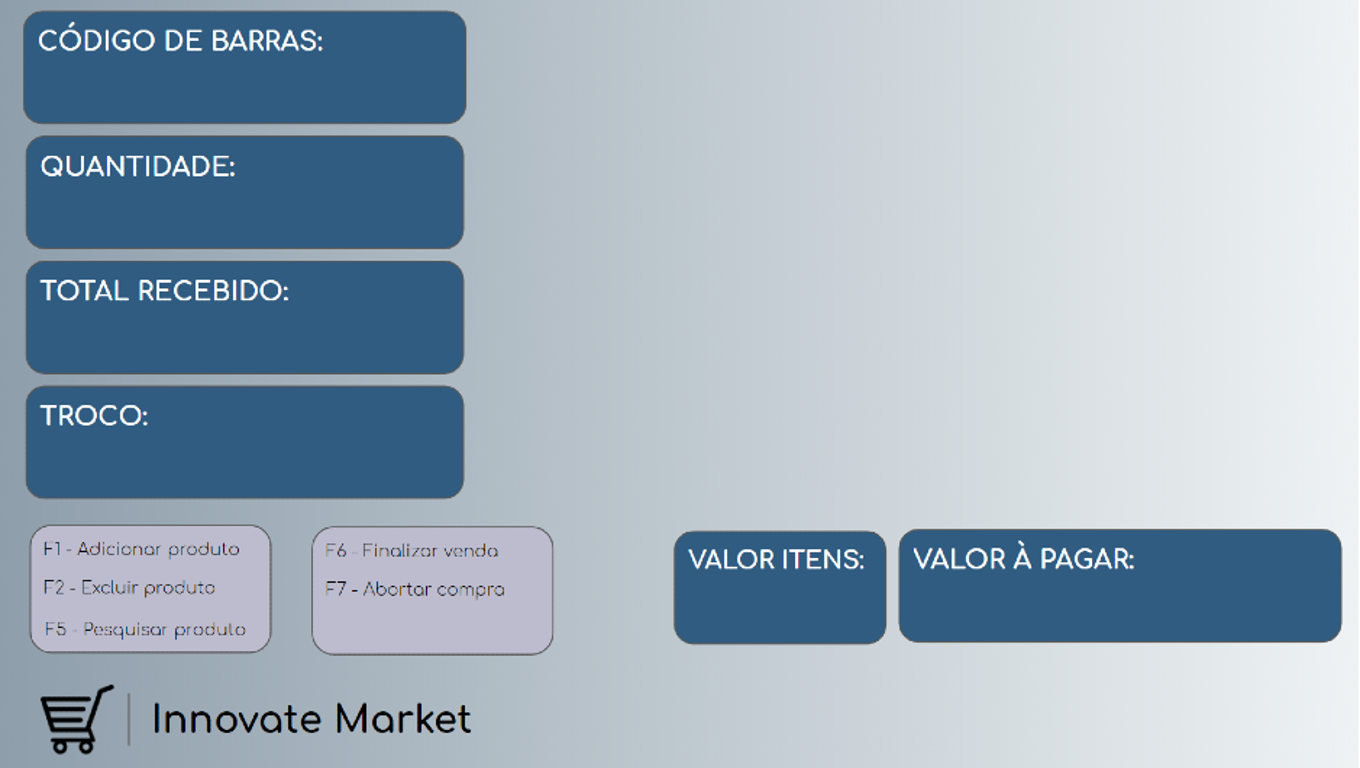
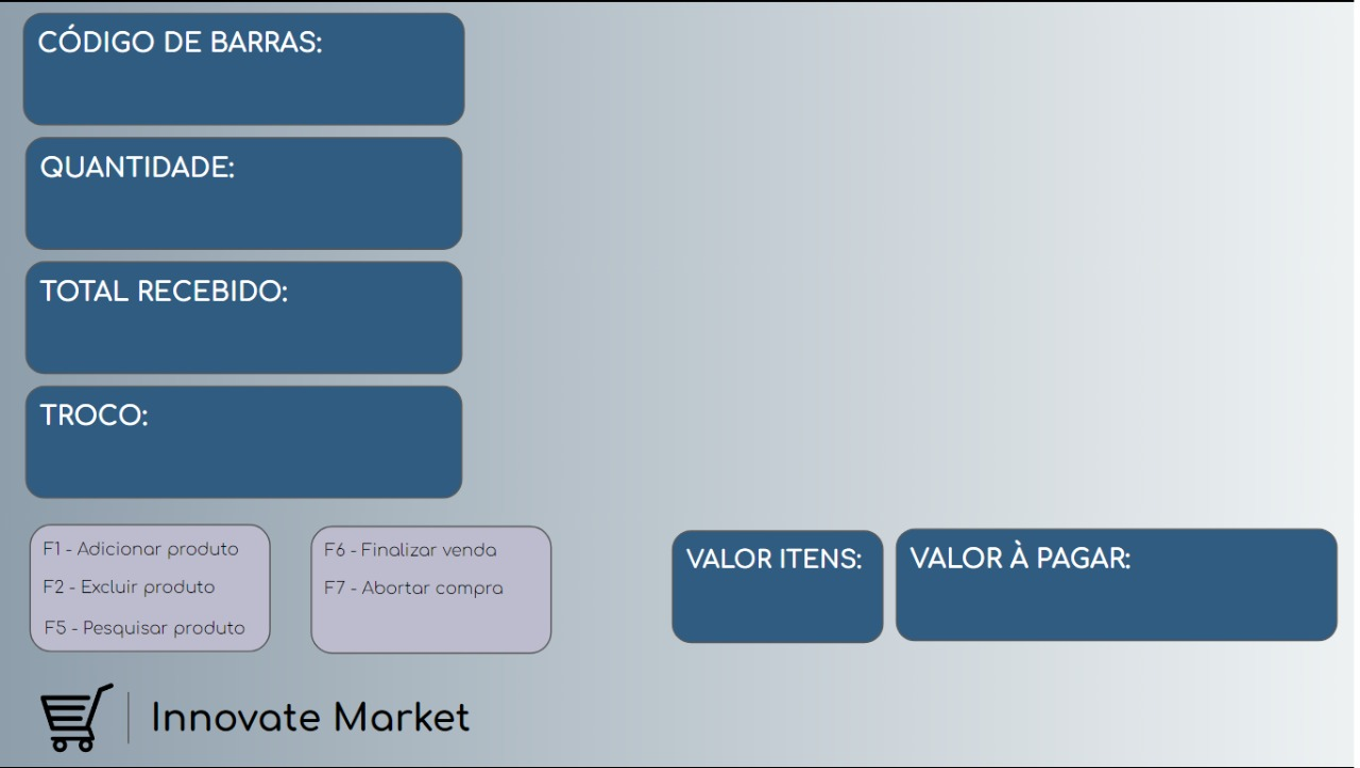
FINALY

diff --git a/InnovateMarket/view/Caixa.py b/InnovateMarket/view/Caixa.py
@@ -11,6 +11,8 @@ class Caixa():
     def __init__(self):
         self.compraID = self.gerarVendaId()
         self.telacaixa = Toplevel()
+        self.valor = 0
+        self.troco = 0
         self.telacaixa.attributes("-fullscreen", True)
         self.geometry()
         self.imagecaixapath = imagespath /  "Logo.png"
@@ -26,6 +28,7 @@ class Caixa():
         self.telacaixa.bind('<F5>', lambda event: self.pesquisarProduto())
         self.telacaixa.bind('<F6>', lambda event: self.finalizarVenda())
         self.telacaixa.bind('<F7>', lambda event: self.abortarCompra())
+        
 
     def geometry(self):
         self.telacaixa.title("Caixa")
@@ -45,6 +48,18 @@ class Caixa():
             caixaControler().caixaAbortar(self.compraID)
             self.telacaixa.destroy()
         return
+    
+    def treeViewSelectionItem(self):
+        self.currItem = self.tree_caixa.focus()
+        self.values = self.tree_caixa.item(self.currItem)['values']
+        print(self.values)
+        self.values = self.values[1]
+        return self.values
+
+    def atualizarDadosLabel(self):
+        self.lbl_valorPagar.config(text=self.valor)
+        self.lbl_troco.config(text=self.troco)
+        
 
     def adicionarProduto(self):
         self.dicti = {}
@@ -66,34 +81,46 @@ class Caixa():
             title="ERROR!", message="Coloque uma quantidade válida!", parent=self.telacaixa)
         
         resultado = caixaControler().validarValues(self.dicti)
-        print(resultado)
+        
         if resultado:
             self.dicti["CodigoProduto"] = self.ent_cod_barras.get()
             self.dicti["CodigoCompra"] = self.compraID
+            self.valor += (int(self.nomeProduto[0][1]) * int(self.quantidade))
             caixaControler().adicionarProdutoCaixa(self.dicti)
             self.mostrarDados()
+            self.atualizarDadosLabel()
 
     def excluirProdutoCompra(self):
         self.currItem = self.tree_caixa.focus()
         if not self.currItem :
             messagebox.showwarning(title="ERROR!", message="Selecione um produto para deletar!", parent=self.telacaixa)
         else:
-            self.values = caixaControler().caixaValues(self.tree_caixa.item(self.currItem)['values'])
+            self.values = self.tree_caixa.item(self.currItem)['values']
+            self.values.append(self.compraID)
+            self.values = caixaControler().caixaValues(self.values)
             self.tree_caixa.delete(self.currItem)
+            self.valor -= (int(self.values.Valores) * int(self.values.Qtd))
             caixaControler().deletarProduto(self.values.CodigoProduto)
+            self.atualizarDadosLabel()
             self.mostrarDados()
 
     def finalizarVenda(self):
-        self.result = messagebox.askquestion(
+        if self.ent_totalRecebido.get() != '':
+            self.troco = int(self.ent_totalRecebido.get()) - int(self.valor)
+            self.atualizarDadosLabel()
+            self.result = messagebox.askquestion(
             'AVISO', 'Tem certeza que deseja finalizar a compra?', icon="warning", parent=self.telacaixa)
-        if self.result == "yes":
-            caixaControler().caixaFinalizarCompra(self.compraID)
-            self.mostrarDados()
-            messagebox.showinfo(title="Finalizado!", message="Compra finalizada!", parent=self.telacaixa)
-            sleep(3)
-            self.telacaixa.destroy()
-        return
-        
+            if self.result == "yes":
+                caixaControler().caixaFinalizarCompra(self.compraID)
+                self.mostrarDados()
+                messagebox.showinfo(title="Finalizado!", message="Compra finalizada!", parent=self.telacaixa)
+                sleep(3)
+                self.telacaixa.destroy()
+            return
+        else:
+            messagebox.showwarning(
+                title="ERROR!", message="Coloque o valor recebido!", parent=self.telacaixa) 
+    
     def gerarVendaId(self):
         self.compraID = randint(0, 9999999)
         self.compraID = str(self.compraID)
@@ -110,7 +137,7 @@ class Caixa():
                 self.tree_caixa.insert("","end",values=i)
         else:
             print("Error!")
-    
+        
     # Função para procurar por dados na Treeview        
     def chamaPesquisar(self):
         resultado = Pesquisar.pesquisar(self.ent_pesquisar.get(), "caixa")
@@ -173,9 +200,6 @@ class Caixa():
         ### LABELS ###
         self.lbl_troco = Label(self.telacaixa, text="Troco", width=16, font="arial 20", anchor="w", bg="#305c81", fg="black")
         self.lbl_troco.place(x=45, y=443)
-
-        self.lbl_valorItens = Label(self.telacaixa, text="Valor Itens", width=10, font="arial 20", anchor="w", bg="#305c81", fg="black")
-        self.lbl_valorItens.place(x=690, y=585)
 
         self.lbl_valorPagar = Label(self.telacaixa, text="Valor à pagar", width=16, font="arial 20", anchor="w", bg="#305c81", fg="black")
         self.lbl_valorPagar.place(x=920, y=585)

diff --git a/InnovateMarket/controller/Controller.py b/InnovateMarket/controller/Controller.py
@@ -125,15 +125,16 @@ class caixaControler():
         today = datetime.today().strftime('%d%m%Y')
         data = str(today)
         valoresCompra = Pesquisar().pesquisar(compraID, "caixaFinalizar", "CodigoCompra")
+        
         for i in valoresCompra:
             self.dicti = {}
             
             self.dicti["CodigoCompra"] = compraID
-            self.dicti["Nome Produto"] = str(i[1])
+            self.dicti["nomeProduto"] = str(i[1])
             self.dicti["Qtd"] = str(i[2])
             self.dicti["CodigoProduto"] = str(i[3])
             self.dicti["Data"] = data
-            
+            self.dicti["Valores"] = str(i[4])
             Inserir().salvarVenda(self.dicti)
         
         Deletar().deletar("caixaCompras", "CodigoCompra", compraID)

diff --git a/InnovateMarket/model/Inserir.py b/InnovateMarket/model/Inserir.py
@@ -21,7 +21,7 @@ class Inserir():
         DB().closeCursor()
     
     def salvarVenda(self, valores):
-        self.__cursor.execute("INSERT INTO Vendas (CodigoCompra, NomeProduto, Qtd, CodigoProduto, Data) VALUES (?, ?, ?, ?, ?)", (valores.get('CodigoCompra'), valores.get('nomeProduto'), valores.get('Qtd'), valores.get('CodigoProduto'), valores.get('Data')))
+        self.__cursor.execute("INSERT INTO Vendas (CodigoCompra, NomeProduto, Qtd, CodigoProduto, Data, Valores) VALUES (?, ?, ?, ?, ?, ?)", (valores.get('CodigoCompra'), valores.get('nomeProduto'), valores.get('Qtd'), valores.get('CodigoProduto'), valores.get('Data'), valores.get('Valores')))
         self.__cursor.execute("commit;")
         DB().closeCursor()
     

diff --git a/InnovateMarket/model/ValuesDB.py b/InnovateMarket/model/ValuesDB.py
@@ -11,7 +11,8 @@ class ValuesDB():
             return setValuesFornecedor(self.values[0], self.values[1], self.values[2], self.values[3])
         elif tabela == "caixaCompras":
             self.values = values
-            return setValuesProdutosCaixa(self.values[0], self.values[1], self.values[2], self.values[3])
+            print(self.values)
+            return setValuesProdutosCaixa(self.values[0], self.values[1], self.values[2], self.values[3], self.values[4])
         elif tabela == "pedidos":
             self.values = values
             return setValuesPedidos(self.values[0], self.values[1], self.values[2], self.values[3])

diff --git a/InnovateMarket/model/Values.py b/InnovateMarket/model/Values.py
@@ -15,11 +15,12 @@ class setValuesFornecedor():
 
 
 class setValuesProdutosCaixa():
-    def __init__(self, CodigoCompra, NomeProduto, Qtd, CodigoProduto):
-        self.CodigoCompra = CodigoCompra
+    def __init__(self, NomeProduto, Valores,CodigoProduto , Qtd, CodigoCompra):
         self.NomeProduto = NomeProduto
+        self.Valores = Valores
         self.Qtd = Qtd
         self.CodigoProduto = CodigoProduto
+        self.CodigoCompra = CodigoCompra
 
 class setValuesPedidos():
     def __init__(self, ID, produtos, data, valores):

diff --git a/InnovateMarket/model/Pesquisar.py b/InnovateMarket/model/Pesquisar.py
@@ -21,7 +21,6 @@ class Pesquisar():
             self.__cursor.execute(f"SELECT * FROM {tabela} WHERE {keys[0]} LIKE '%{pesquisa[keys[0]]}%' OR {keys[1]} LIKE '%{pesquisa[keys[1]]}%' OR {keys[2]} LIKE '%{pesquisa[keys[2]]}%' OR {keys[3]} LIKE '%{pesquisa[keys[3]]}%' ORDER BY {coluna}")
 
         resultado = self.__cursor.fetchall()
-        print(len(resultado))
         DB().closeCursor()
 
         return resultado
